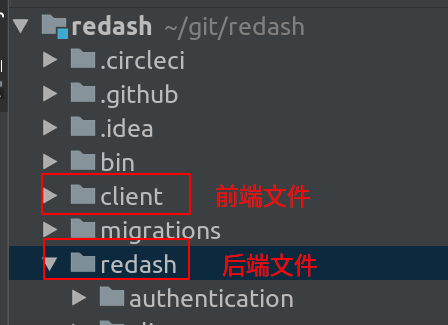
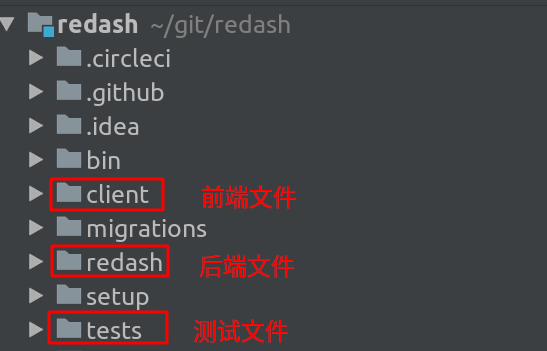
添加2及目录

Changed region(s): [[0.0, 0.0308, 1.0, 1.0], [0.3125, 0.9846, 0.3438, 1.0], [0.0, 0.1846, 0.0312, 0.2154]]

diff --git a/README.md b/README.md
@@ -50,12 +50,14 @@
 
 ## 代码结构
  Redash代码结构模块化做的非常好，通过目录名可以分析出代码功能定位
- <div align="center"> <img src="images/cdoe.png"/> </div><br>
+ <div align="center"> <img src="images/code.png"/> </div><br>
 
  - client 此目录下主要是前端文件如html模板、js文件和css文件等
  - redash 此目录为后端逻辑也是Redash的核心代码部分
- 
+ - test 针对redash目录中代码单元测试代码
+
  以下是Redash目录下的结构
+  <div align="center"> <img src="images/code2.png"/> </div><br>
  
  
  
